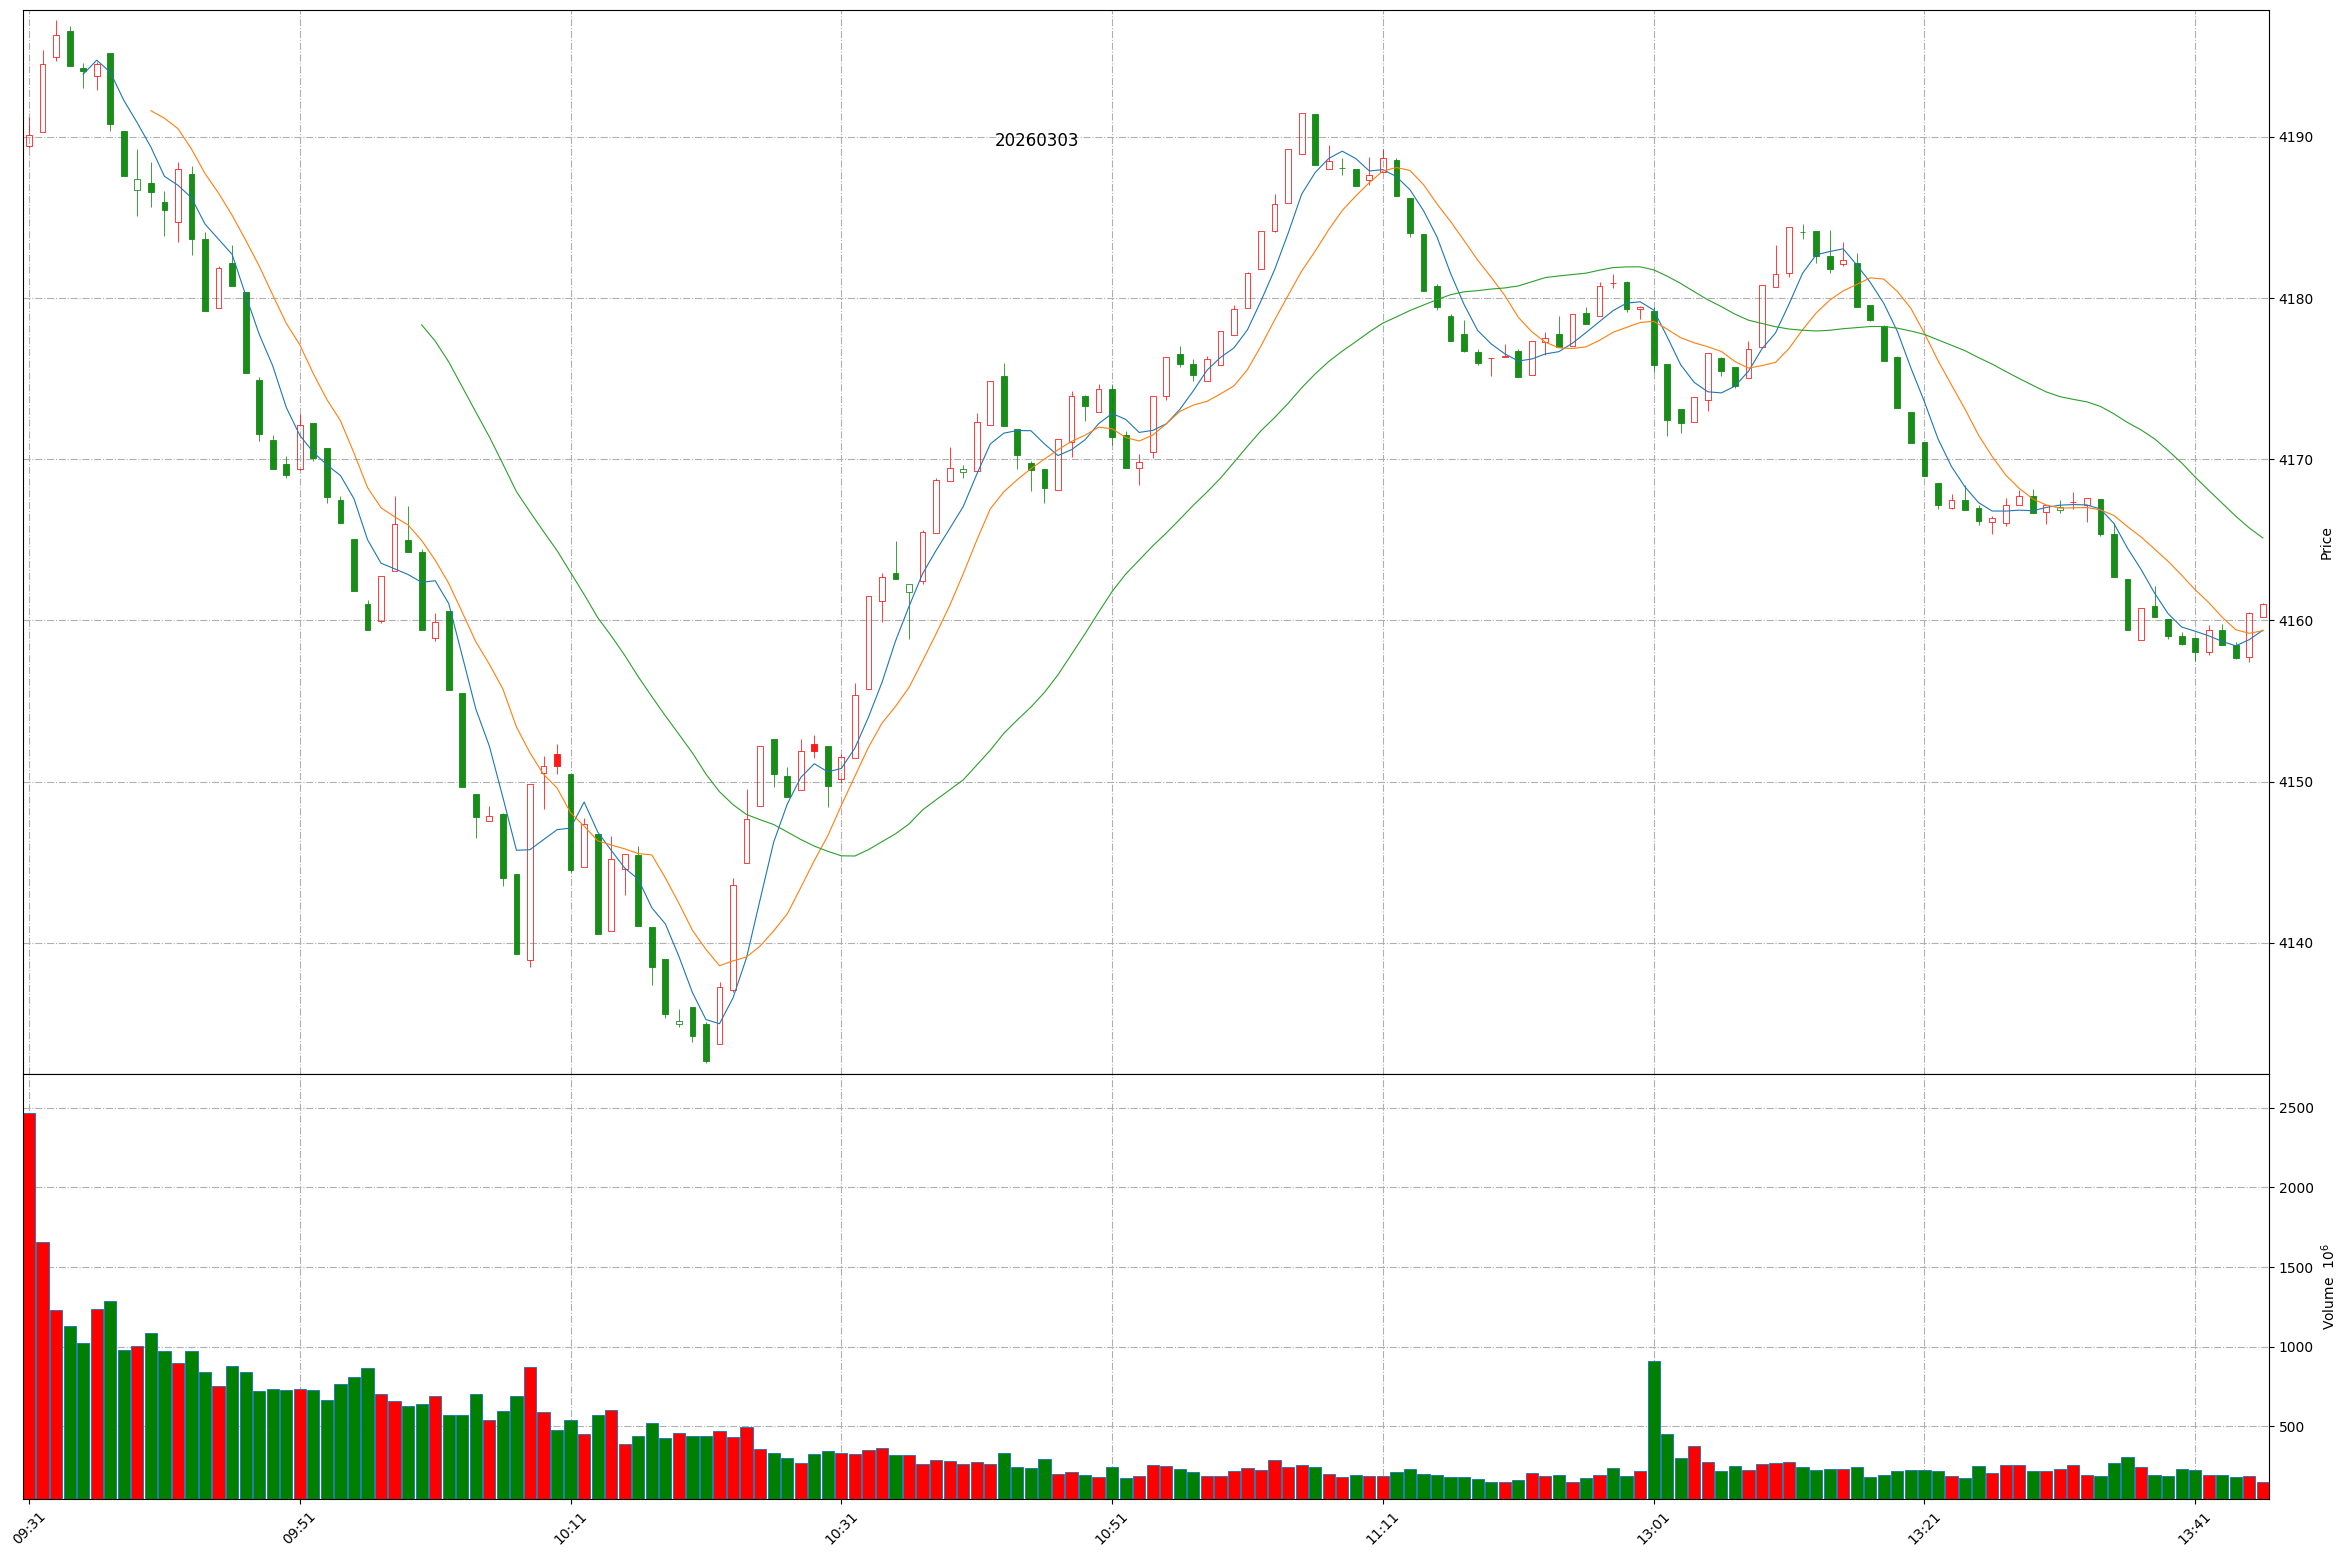
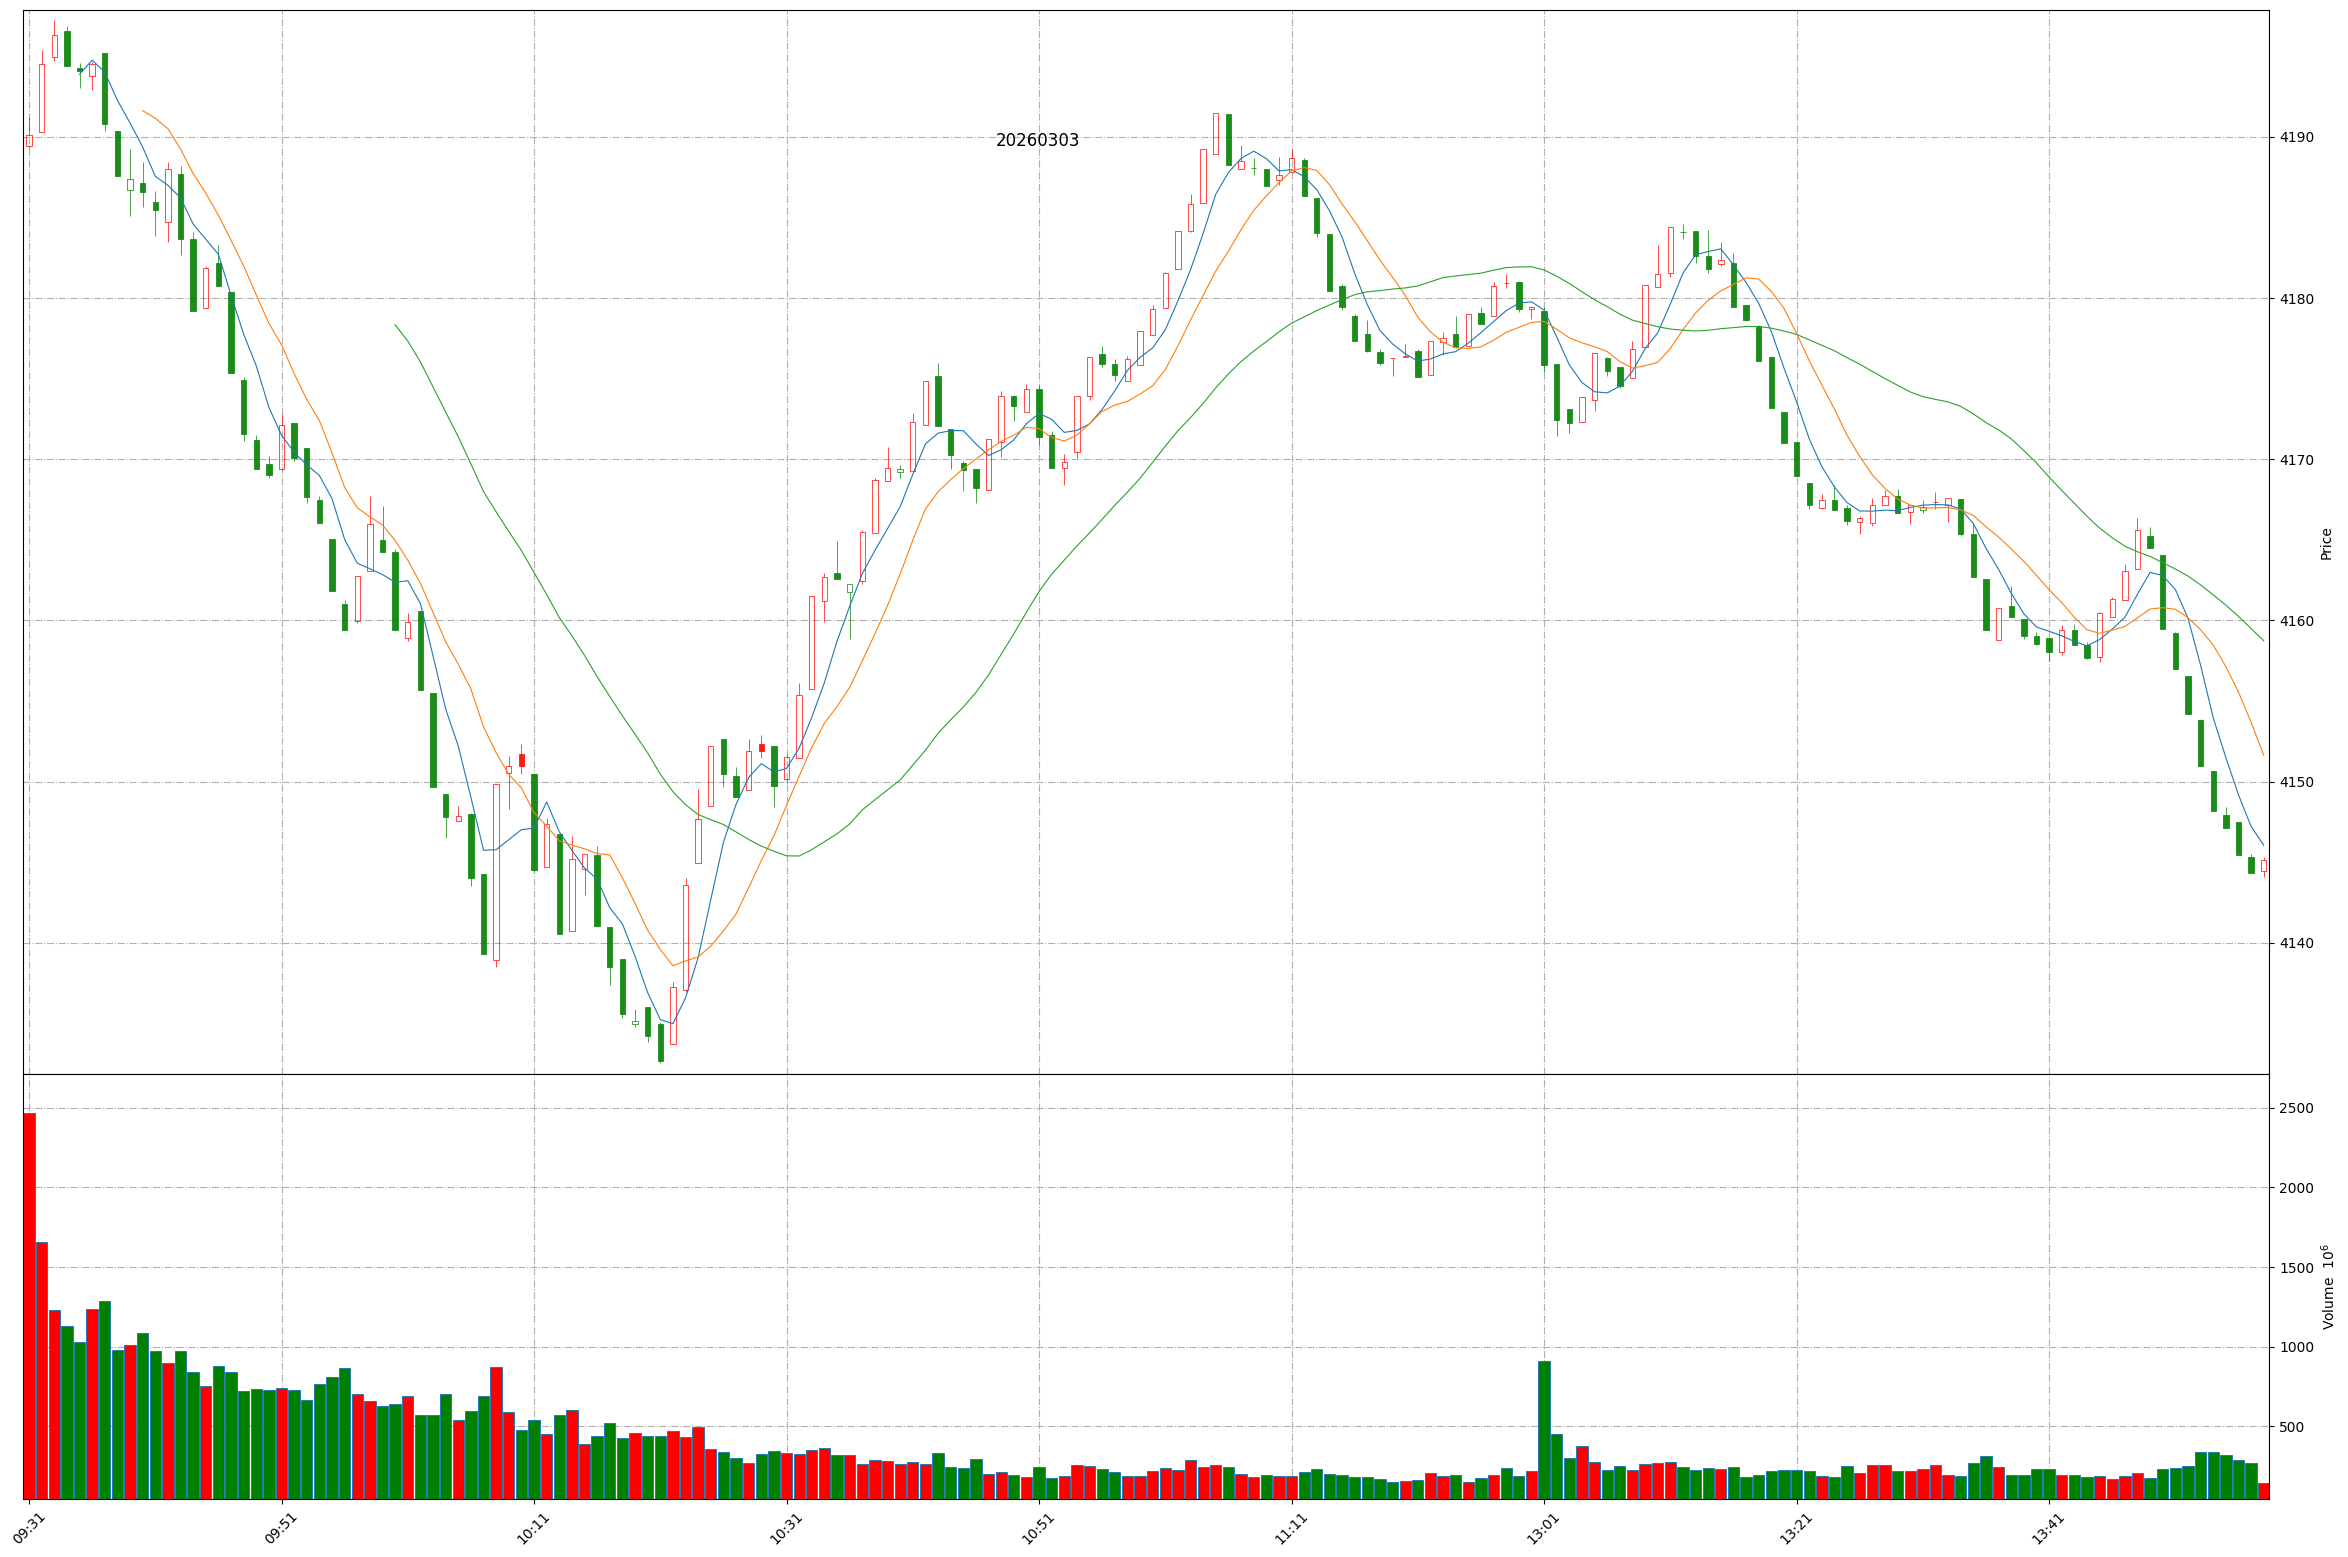
Github action update at 2026-03-03 13:57:49.

diff --git a/README.md b/README.md
@@ -1,11 +1,11 @@
 
 # Daily-A-share-market-quotes 每日 A 股指数（5min 更新）- 20260303
 
-### 上证指数 20260303 13:46
+### 上证指数 20260303 13:57
 ![](./fig/2026/3/20260303-sh000001.png)
 
-### 深证成指 20260303 13:46
+### 深证成指 20260303 13:57
 ![](./fig/2026/3/20260303-sz399001.png)
 
-### 北证50 20260303 13:46
+### 北证50 20260303 13:57
 ![](./fig/2026/3/20260303-bj899050.png)
